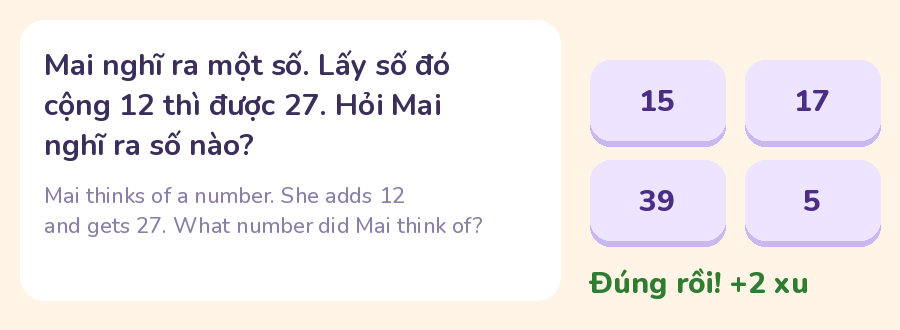
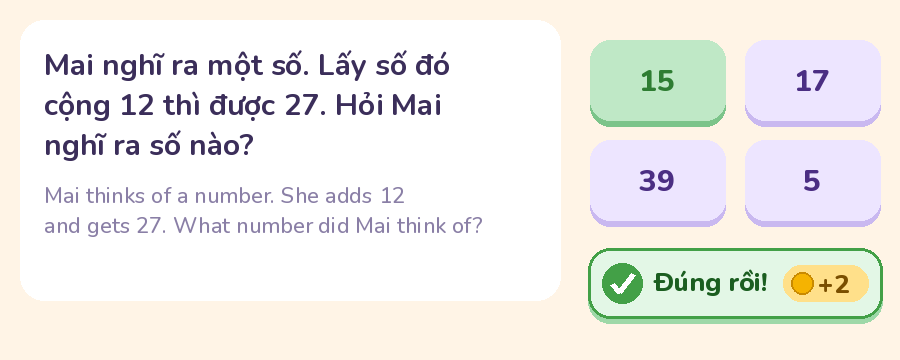
docs: mẫu băng Đúng rồi bo viền có nền (anh Điệp góp ý)
Claude-Session: https://claude.ai/code/session_01TEW6qvVy4zk3RvbBLFDTR5

diff --git a/docs/PLAN.md b/docs/PLAN.md
@@ -56,7 +56,7 @@ Các điểm dưới đây ghi đè mọi chỗ nói khác trong kế hoạch.
 | j | Môi trường build | Muse được cài Flutter SDK trong workspace của mình để chạy `flutter create`, `analyze`, unit test và widget test. Build APK và test máy ảo chạy trên GitHub Actions. |
 | k | Nguồn hình (chốt 18/11) | Các tấm trong `assets/concept/` là nguồn hình chính: tách nền, cắt từng món, sửa lỗi theo bảng trong `assets/concept/README.md`. Món thiếu hoặc hỏng thì Muse vẽ bổ sung cùng phong cách pastel viền trắng sticker. Áp dụng từ T1-12 (icon app, nền Thị trấn, biểu tượng nút) và cả bản 0.2. |
 | l | Màn làm toán sau khi anh Điệp dùng thử v0.0.1 (chốt 18/11) | (1) Đề luôn hiện song ngữ: dòng trên tiếng Việt chữ to, dòng dưới tiếng Anh chữ nhỏ hơn, màu nhạt hơn; bỏ nút đổi EN. Gợi ý và lời giải cũng hiện song ngữ theo cùng cách. Nút xem từ khóa giữ nguyên. (2) Hai cột cân nhau: khối đề (cột trái) và khối đáp án (cột phải) cùng căn giữa theo chiều dọc trong vùng dưới thanh trên, không để đề dính góc trên trái còn đáp án lệch xuống góc dưới phải. Gợi ý, lời giải nằm ngay dưới đề trong cột trái; nút Tiếp nằm dưới đáp án trong cột phải. |
-| m | Màn làm toán sinh động (chốt 18/11, tham khảo Duolingo và iSmart) | Âm thanh: đúng phát `correct.wav` ("ting"), sai phát `wrong.wav` ("è" nhẹ), xu phát `coin.wav`, xong chặng phát `stage_complete.wav` (có sẵn trong `app/assets/sounds/`), tắt được theo `sound_enabled`. Giao diện: thanh tiến độ 5 ô ở trên thay chữ "Câu 1/5"; nền theo khu, mỗi mảng một màu pastel kèm họa tiết nhẹ (SVG); đề nằm trong thẻ trắng bo tròn có bóng; nút đáp án to kiểu nổi (viền dưới đậm, nhấn thì lún xuống); kết quả hiện bằng băng trượt lên từ đáy màn: xanh "Đúng rồi! +2 xu" kèm nút Tiếp, cam nhạt "Gần đúng rồi, xem gợi ý nhé" khi sai lần đầu (không dùng đỏ gắt); xu bay về góc ví; đúng liền 3 câu hiện "3 câu liền!". Có một pet hoặc nhân vật nhỏ ở góc phản ứng vui khi đúng, động viên khi sai (lấy từ tấm concept pet). Hiệu ứng ngắn dưới 1 giây, không chặn thao tác. Phông chữ: dùng Nunito có sẵn trong `app/assets/fonts/` cho toàn app (khai báo trong pubspec, đặt làm `fontFamily` của theme). Tương phản: chữ đề màu tím đậm `#3B2E5A` trên thẻ trắng, dòng tiếng Anh `#8A7FA6`, số trên nút `#4B2E83`, nền màn và nền thẻ phải khác hẳn nhau (ảnh mẫu `docs/preview_font_mau.png`); mọi chữ chính đạt tương phản tối thiểu 4,5:1. |
+| m | Màn làm toán sinh động (chốt 18/11, tham khảo Duolingo và iSmart) | Âm thanh: đúng phát `correct.wav` ("ting"), sai phát `wrong.wav` ("è" nhẹ), xu phát `coin.wav`, xong chặng phát `stage_complete.wav` (có sẵn trong `app/assets/sounds/`), tắt được theo `sound_enabled`. Giao diện: thanh tiến độ 5 ô ở trên thay chữ "Câu 1/5"; nền theo khu, mỗi mảng một màu pastel kèm họa tiết nhẹ (SVG); đề nằm trong thẻ trắng bo tròn có bóng; nút đáp án to kiểu nổi (viền dưới đậm, nhấn thì lún xuống); kết quả hiện bằng băng trượt lên từ đáy màn: xanh "Đúng rồi! +2 xu" kèm nút Tiếp (băng bo tròn, nền xanh nhạt `#E3F7E6`, viền xanh `#43A047` dày 3, bóng dưới, biểu tượng dấu tích tròn bên trái, số xu trong ô vàng có hình đồng xu; nút đáp án đúng chuyển xanh; xem `docs/preview_font_mau.png`), cam nhạt "Gần đúng rồi, xem gợi ý nhé" khi sai lần đầu (không dùng đỏ gắt); xu bay về góc ví; đúng liền 3 câu hiện "3 câu liền!". Có một pet hoặc nhân vật nhỏ ở góc phản ứng vui khi đúng, động viên khi sai (lấy từ tấm concept pet). Hiệu ứng ngắn dưới 1 giây, không chặn thao tác. Phông chữ: dùng Nunito có sẵn trong `app/assets/fonts/` cho toàn app (khai báo trong pubspec, đặt làm `fontFamily` của theme). Tương phản: chữ đề màu tím đậm `#3B2E5A` trên thẻ trắng, dòng tiếng Anh `#8A7FA6`, số trên nút `#4B2E83`, nền màn và nền thẻ phải khác hẳn nhau (ảnh mẫu `docs/preview_font_mau.png`); mọi chữ chính đạt tương phản tối thiểu 4,5:1. |
 
 ## Quy ước kỹ thuật
 
